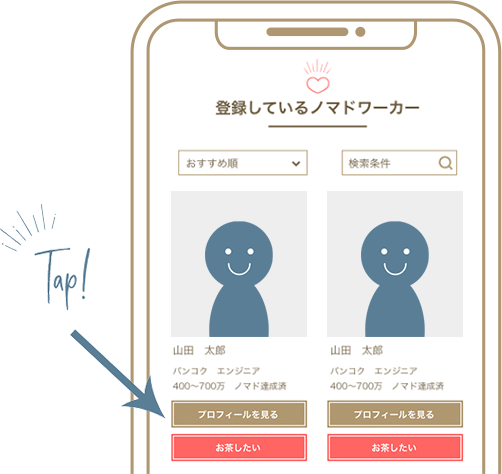
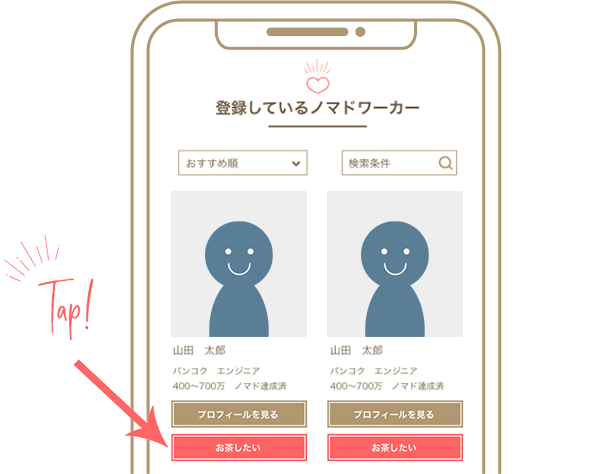
お茶したいモーダルの実装

Changed region(s): [[0.0, 0.0, 1.0, 1.0], [0.3586, 0.0295, 0.5378, 0.1181], [0.1195, 0.7384, 0.1793, 0.827]]

diff --git a/src/components/SendMessageModal.vue b/src/components/SendMessageModal.vue
@@ -14,10 +14,15 @@ div.modal(:class="{ 'is-active': active}")
         div.profile-name {{ userProfile.name }}
         div.message-guide メッセージを送ってみましょう！
       div.profile-message
-        // img.message-icon(src="@/assets/images/tit_profile.png")
+        img.message-icon(src="@/assets/images/tit_message.png")
         b-field
-          b-input(type="textarea" v-model="mailMessage" :placeholder="placeholder")
-        ButtonMatching(
+          b-input.message-editor(
+            type="textarea"
+            v-model="mailMessage"
+            :placeholder="placeholder"
+          )
+        img.coffee-icon(src="@/assets/images/mark_cup.png")
+        ButtonMatching.send-button(
           @matching="sendMessage"
           text="送信する"
           size="large"
@@ -117,10 +122,28 @@ export default {
 
 .profile-message
   background #F5F5F5
-  padding 2rem
+  padding 0.5rem 2rem 2rem 2rem
 
 .message-editor
   font-family Hiragino Kaku Gothic ProN
   font-size 16px
   color #6C5A3F
+
+.message-icon
+  width 103px
+  position relative
+  left 10px
+  margin-bottom 0.3rem
+
+.coffee-icon
+  width 48px
+
+.send-button
+  margin-top 0.7rem
+</style>
+
+<style lang="stylus">
+.message-editor
+  textarea
+    min-height 170px !important
 </style>

diff --git a/src/components/HowToUse.vue b/src/components/HowToUse.vue
@@ -30,7 +30,7 @@ export default {
           headImageSrc: require("@/assets/images/step1.png"),
           headText: "気になるノマドを探す",
           bodyImageSrc: require("@/assets/images/step1_pic.png"),
-          width: "219.33px",
+          width: "265px",
           left: "0px"
         },
         {
@@ -44,7 +44,7 @@ export default {
           headImageSrc: require("@/assets/images/step3.png"),
           headText: "相手にメールが届きます。",
           bodyImageSrc: require("@/assets/images/step3_pic.png"),
-          width: "219.33px",
+          width: "265px",
           left: "0px"
         }
       ]
